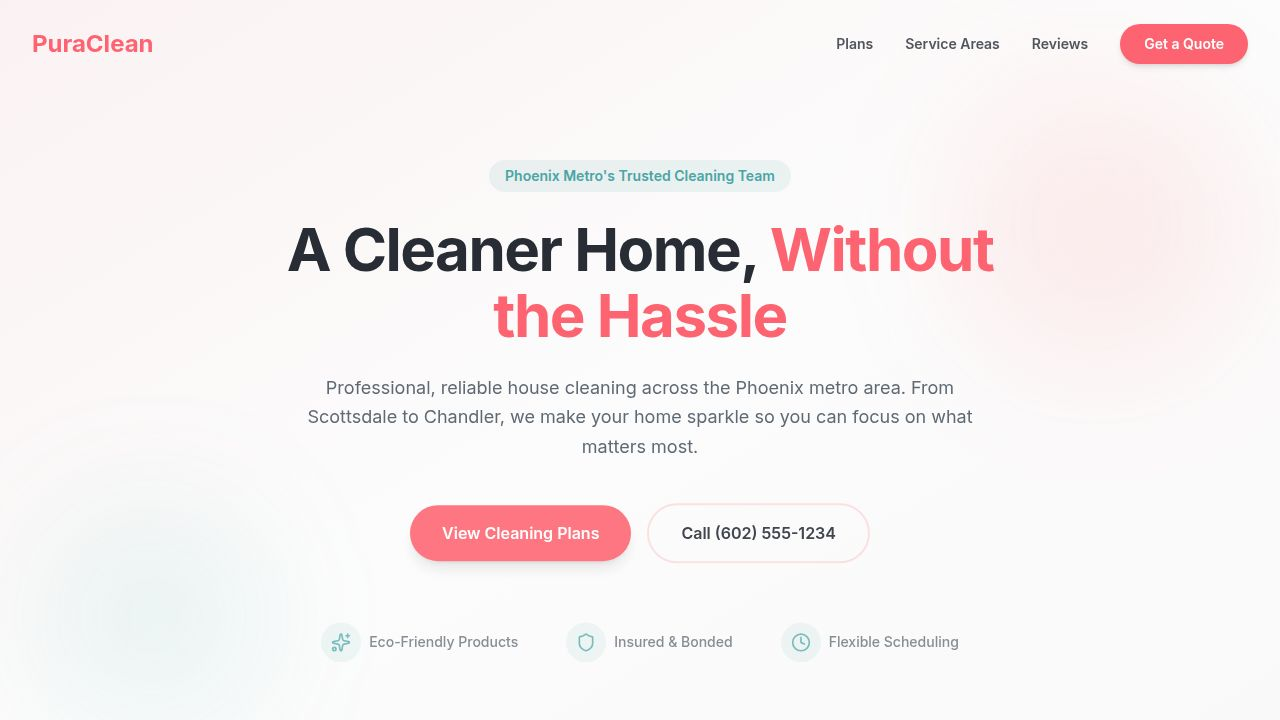
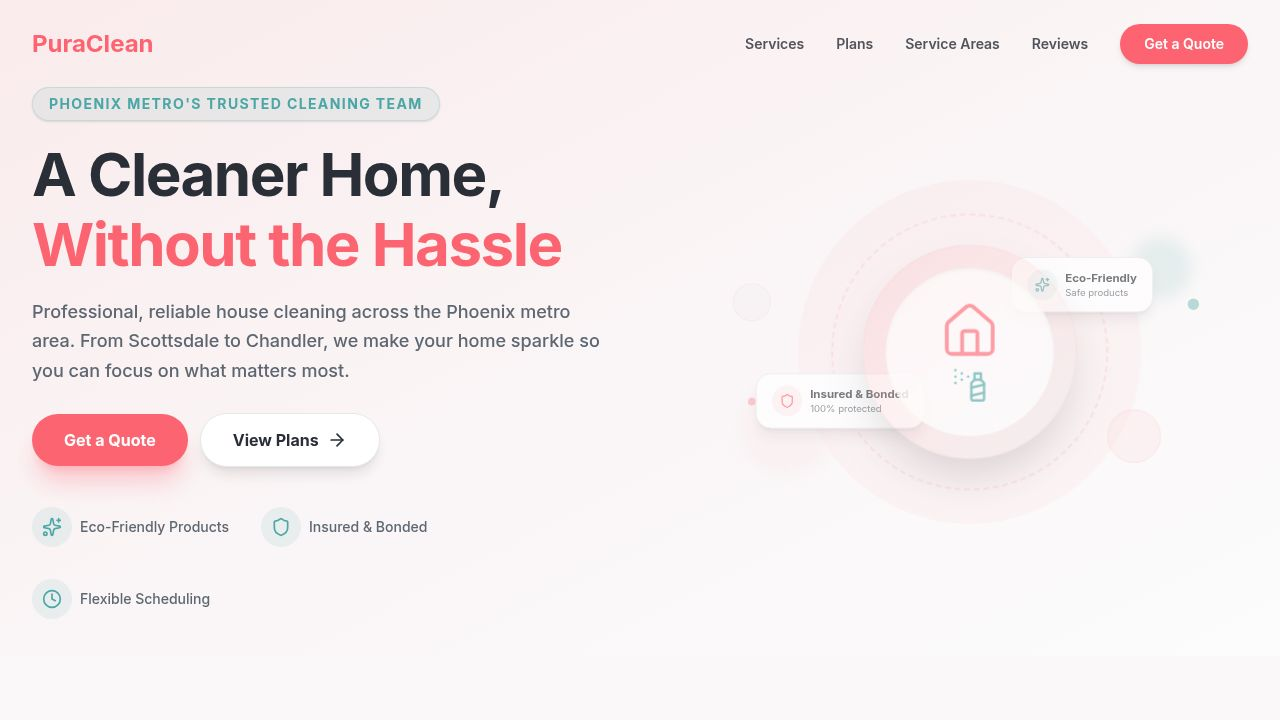
Add dedicated sections for services and booking instructions to the website
Introduces new components for "Our Services" and "How to Book", integrates them into App.tsx, and updates the Navbar component with a "Services" link. Adjusts Hero section styling.

Replit-Commit-Author: Agent
Replit-Commit-Session-Id: 722eb9a4-f421-4286-b5b5-d8ccd61a2dd0
Replit-Commit-Checkpoint-Type: full_checkpoint
Replit-Commit-Event-Id: 44410ef3-15a8-4eb9-8cb2-ab27e0402140
Replit-Commit-Screenshot-Url: https://storage.googleapis.com/screenshot-production-us-central1/75532441-acbd-4027-9354-cdea6a9a6436/722eb9a4-f421-4286-b5b5-d8ccd61a2dd0/XOLthSx
Replit-Helium-Checkpoint-Created: true

diff --git a/artifacts/pura-clean/src/components/sections/HowToBook.tsx b/artifacts/pura-clean/src/components/sections/HowToBook.tsx
@@ -1,0 +1,111 @@
+import { motion } from 'framer-motion';
+import { MousePointerClick, Phone, CalendarCheck } from 'lucide-react';
+
+const steps = [
+  {
+    number: '1',
+    icon: MousePointerClick,
+    title: 'Choose Your Plan',
+    description: 'Browse our Partial, Full, or Premium cleaning plans and pick the one that fits your home.',
+  },
+  {
+    number: '2',
+    icon: CalendarCheck,
+    title: 'Schedule a Date',
+    description: 'Select a date and time that works for you. We offer flexible scheduling throughout the week.',
+  },
+  {
+    number: '3',
+    icon: Phone,
+    title: 'We Handle the Rest',
+    description: 'Our vetted, insured team arrives on time and leaves your home sparkling clean.',
+  },
+];
+
+export default function HowToBook() {
+  const scrollToPlans = () => {
+    document.getElementById('plans')?.scrollIntoView({ behavior: 'smooth' });
+  };
+
+  return (
+    <section id="how-to-book" className="py-20 md:py-28 bg-background">
+      <div className="max-w-7xl mx-auto px-4 sm:px-6 lg:px-8">
+        <div className="text-center mb-16">
+          <span className="inline-block px-4 py-1.5 rounded-full bg-primary/10 text-primary text-sm font-semibold mb-4">
+            Simple & Easy
+          </span>
+          <h2 className="text-3xl sm:text-4xl font-bold tracking-tight">
+            How to Book
+          </h2>
+          <p className="mt-4 text-muted-foreground max-w-2xl mx-auto">
+            Getting started is easy — book online or give us a call. We'll take care of the rest.
+          </p>
+        </div>
+
+        <div className="grid grid-cols-1 md:grid-cols-3 gap-8 lg:gap-12 mb-14">
+          {steps.map((step, i) => (
+            <motion.div
+              key={step.title}
+              initial={{ opacity: 0, y: 25 }}
+              whileInView={{ opacity: 1, y: 0 }}
+              viewport={{ once: true, margin: '-40px' }}
+              transition={{ duration: 0.5, delay: i * 0.12, ease: "easeOut" as const }}
+              className="text-center relative"
+            >
+              {i < steps.length - 1 && (
+                <div className="hidden md:block absolute top-10 left-[calc(50%+40px)] w-[calc(100%-80px)] h-0.5 border-t-2 border-dashed border-border" />
+              )}
+              <div className="relative inline-flex items-center justify-center mb-6">
+                <div className="w-20 h-20 rounded-full bg-primary/10 flex items-center justify-center">
+                  <step.icon className="w-9 h-9 text-primary" />
+                </div>
+                <span className="absolute -top-1 -right-1 w-7 h-7 rounded-full bg-teal text-white text-xs font-bold flex items-center justify-center shadow-md">
+                  {step.number}
+                </span>
+              </div>
+              <h3 className="text-lg font-bold text-foreground mb-2">{step.title}</h3>
+              <p className="text-sm text-muted-foreground leading-relaxed max-w-xs mx-auto">{step.description}</p>
+            </motion.div>
+          ))}
+        </div>
+
+        <motion.div
+          initial={{ opacity: 0, y: 20 }}
+          whileInView={{ opacity: 1, y: 0 }}
+          viewport={{ once: true }}
+          transition={{ duration: 0.5, ease: "easeOut" as const }}
+          className="bg-card rounded-2xl border border-border shadow-sm p-8 md:p-10 flex flex-col md:flex-row items-center gap-8"
+        >
+          <div className="flex-1 text-center md:text-left">
+            <h3 className="text-xl font-bold text-foreground mb-2">Book Online</h3>
+            <p className="text-muted-foreground text-sm leading-relaxed">
+              Choose a cleaning plan below and we'll follow up within the hour to confirm your appointment.
+            </p>
+            <button
+              onClick={scrollToPlans}
+              className="mt-5 px-8 py-3.5 rounded-full bg-primary text-primary-foreground font-semibold text-sm shadow-md hover:shadow-lg hover:-translate-y-0.5 active:translate-y-0 transition-all duration-200"
+            >
+              View Plans & Get a Quote
+            </button>
+          </div>
+
+          <div className="w-full md:w-px h-px md:h-24 bg-border" />
+
+          <div className="flex-1 text-center md:text-left">
+            <h3 className="text-xl font-bold text-foreground mb-2">Prefer to Call?</h3>
+            <p className="text-muted-foreground text-sm leading-relaxed">
+              Speak with our friendly team directly. We're happy to answer any questions and schedule your cleaning over the phone.
+            </p>
+            <a
+              href="tel:6025551234"
+              className="mt-5 inline-flex items-center gap-2 px-8 py-3.5 rounded-full border-2 border-primary/20 text-foreground font-semibold text-sm hover:bg-primary/5 transition-all duration-200"
+            >
+              <Phone className="w-4 h-4 text-primary" />
+              (602) 555-1234
+            </a>
+          </div>
+        </motion.div>
+      </div>
+    </section>
+  );
+}

diff --git a/artifacts/pura-clean/src/components/sections/OurServices.tsx b/artifacts/pura-clean/src/components/sections/OurServices.tsx
@@ -1,0 +1,74 @@
+import { motion } from 'framer-motion';
+import { SprayCan, Sofa, Refrigerator, Wind, Brush, Droplets } from 'lucide-react';
+
+const services = [
+  {
+    icon: SprayCan,
+    title: 'Kitchen Deep Clean',
+    description: 'Counters, sinks, stovetops, and appliance exteriors scrubbed and sanitized to a shine.',
+  },
+  {
+    icon: Sofa,
+    title: 'Living Areas',
+    description: 'Dusting, vacuuming, mopping, and tidying all common spaces so they feel welcoming.',
+  },
+  {
+    icon: Droplets,
+    title: 'Bathroom Sanitization',
+    description: 'Toilets, showers, tubs, mirrors, and floors deep-cleaned with eco-friendly products.',
+  },
+  {
+    icon: Refrigerator,
+    title: 'Appliance Cleaning',
+    description: 'Inside and out — oven, microwave, and refrigerator cleaned on our Premium plan.',
+  },
+  {
+    icon: Wind,
+    title: 'Dusting & Air Quality',
+    description: 'Ceiling fans, vents, baseboards, and blinds dusted to keep your air fresh and clean.',
+  },
+  {
+    icon: Brush,
+    title: 'Floors & Surfaces',
+    description: 'All hard floors mopped, carpets vacuumed, and surfaces wiped down throughout the home.',
+  },
+];
+
+export default function OurServices() {
+  return (
+    <section id="services" className="py-20 md:py-28 bg-muted/30">
+      <div className="max-w-7xl mx-auto px-4 sm:px-6 lg:px-8">
+        <div className="text-center mb-16">
+          <span className="inline-block px-4 py-1.5 rounded-full bg-teal/10 text-teal text-sm font-semibold mb-4">
+            What We Do
+          </span>
+          <h2 className="text-3xl sm:text-4xl font-bold tracking-tight">
+            Our Services
+          </h2>
+          <p className="mt-4 text-muted-foreground max-w-2xl mx-auto">
+            From kitchens to bedrooms, we handle every corner of your home with care. Here's what a PuraClean visit covers.
+          </p>
+        </div>
+
+        <div className="grid grid-cols-1 sm:grid-cols-2 lg:grid-cols-3 gap-6 lg:gap-8">
+          {services.map((service, i) => (
+            <motion.div
+              key={service.title}
+              initial={{ opacity: 0, y: 25 }}
+              whileInView={{ opacity: 1, y: 0 }}
+              viewport={{ once: true, margin: '-40px' }}
+              transition={{ duration: 0.5, delay: i * 0.08, ease: "easeOut" as const }}
+              className="bg-card rounded-2xl p-6 border border-border shadow-sm hover:shadow-md transition-shadow"
+            >
+              <div className="w-12 h-12 rounded-xl bg-primary/10 flex items-center justify-center mb-4">
+                <service.icon className="w-6 h-6 text-primary" />
+              </div>
+              <h3 className="text-lg font-bold text-foreground mb-2">{service.title}</h3>
+              <p className="text-sm text-muted-foreground leading-relaxed">{service.description}</p>
+            </motion.div>
+          ))}
+        </div>
+      </div>
+    </section>
+  );
+}

diff --git a/artifacts/pura-clean/src/App.tsx b/artifacts/pura-clean/src/App.tsx
@@ -1,5 +1,7 @@
 import Layout from '@/components/layout/Layout';
 import Hero from '@/components/sections/Hero';
+import OurServices from '@/components/sections/OurServices';
+import HowToBook from '@/components/sections/HowToBook';
 import CleaningPlans from '@/components/sections/CleaningPlans';
 import ServiceAreaMap from '@/components/sections/ServiceAreaMap';
 import Reviews from '@/components/sections/Reviews';
@@ -9,6 +11,8 @@ function App() {
   return (
     <Layout>
       <Hero />
+      <OurServices />
+      <HowToBook />
       <CleaningPlans />
       <ServiceAreaMap />
       <Reviews />

diff --git a/artifacts/pura-clean/src/components/sections/Hero.tsx b/artifacts/pura-clean/src/components/sections/Hero.tsx
@@ -12,7 +12,7 @@ export default function Hero() {
   };
 
   return (
-    <section className="relative min-h-[calc(100vh-4rem)] flex items-center pt-20 pb-8 overflow-hidden">
+    <section className="relative flex items-center pt-28 pb-16 md:pt-36 md:pb-24 overflow-hidden">
       <div className="absolute inset-0 z-0 bg-gradient-to-br from-[hsl(355,60%,95%)] via-[hsl(350,30%,97%)] to-background" />
 
       <div className="relative z-10 max-w-7xl mx-auto px-4 sm:px-6 lg:px-8 w-full">

diff --git a/artifacts/pura-clean/src/components/layout/Navbar.tsx b/artifacts/pura-clean/src/components/layout/Navbar.tsx
@@ -20,6 +20,7 @@ export default function Navbar() {
   };
 
   const navLinks = [
+    { name: 'Services', id: 'services' },
     { name: 'Plans', id: 'plans' },
     { name: 'Service Areas', id: 'service-areas' },
     { name: 'Reviews', id: 'reviews' },
